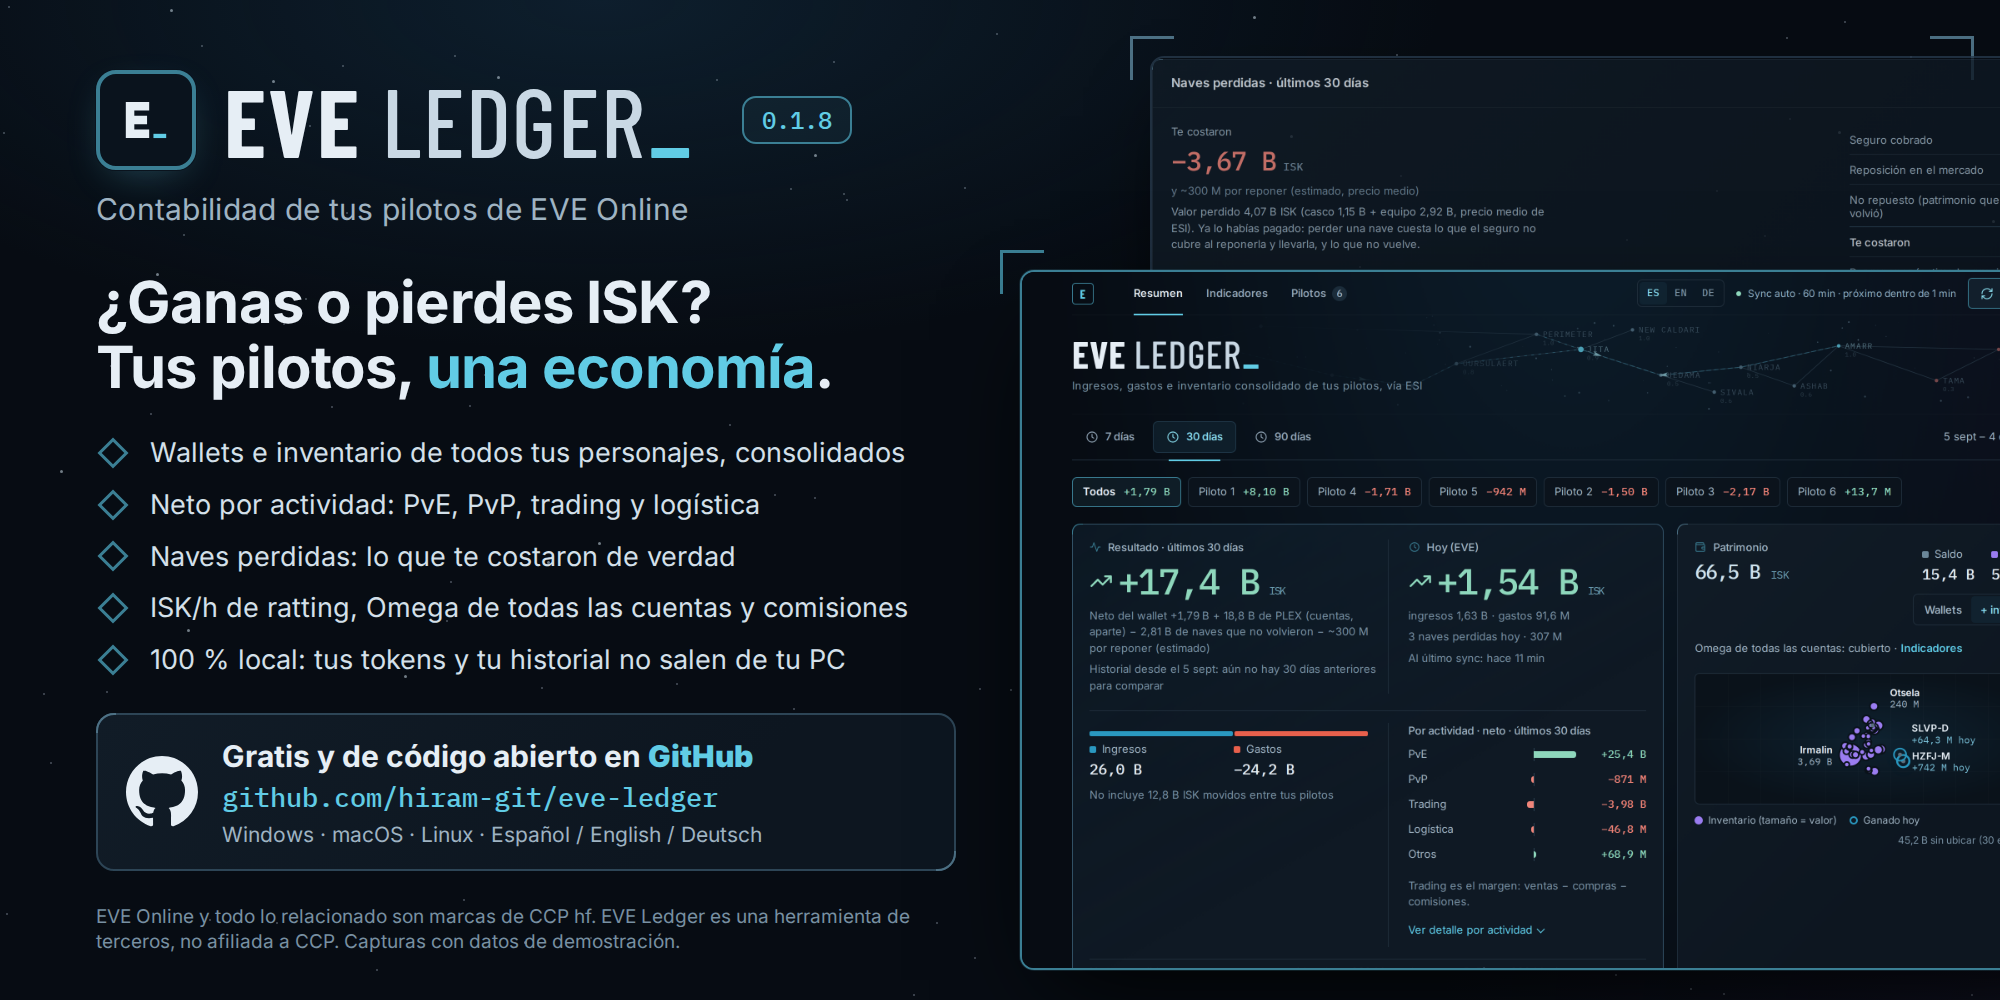
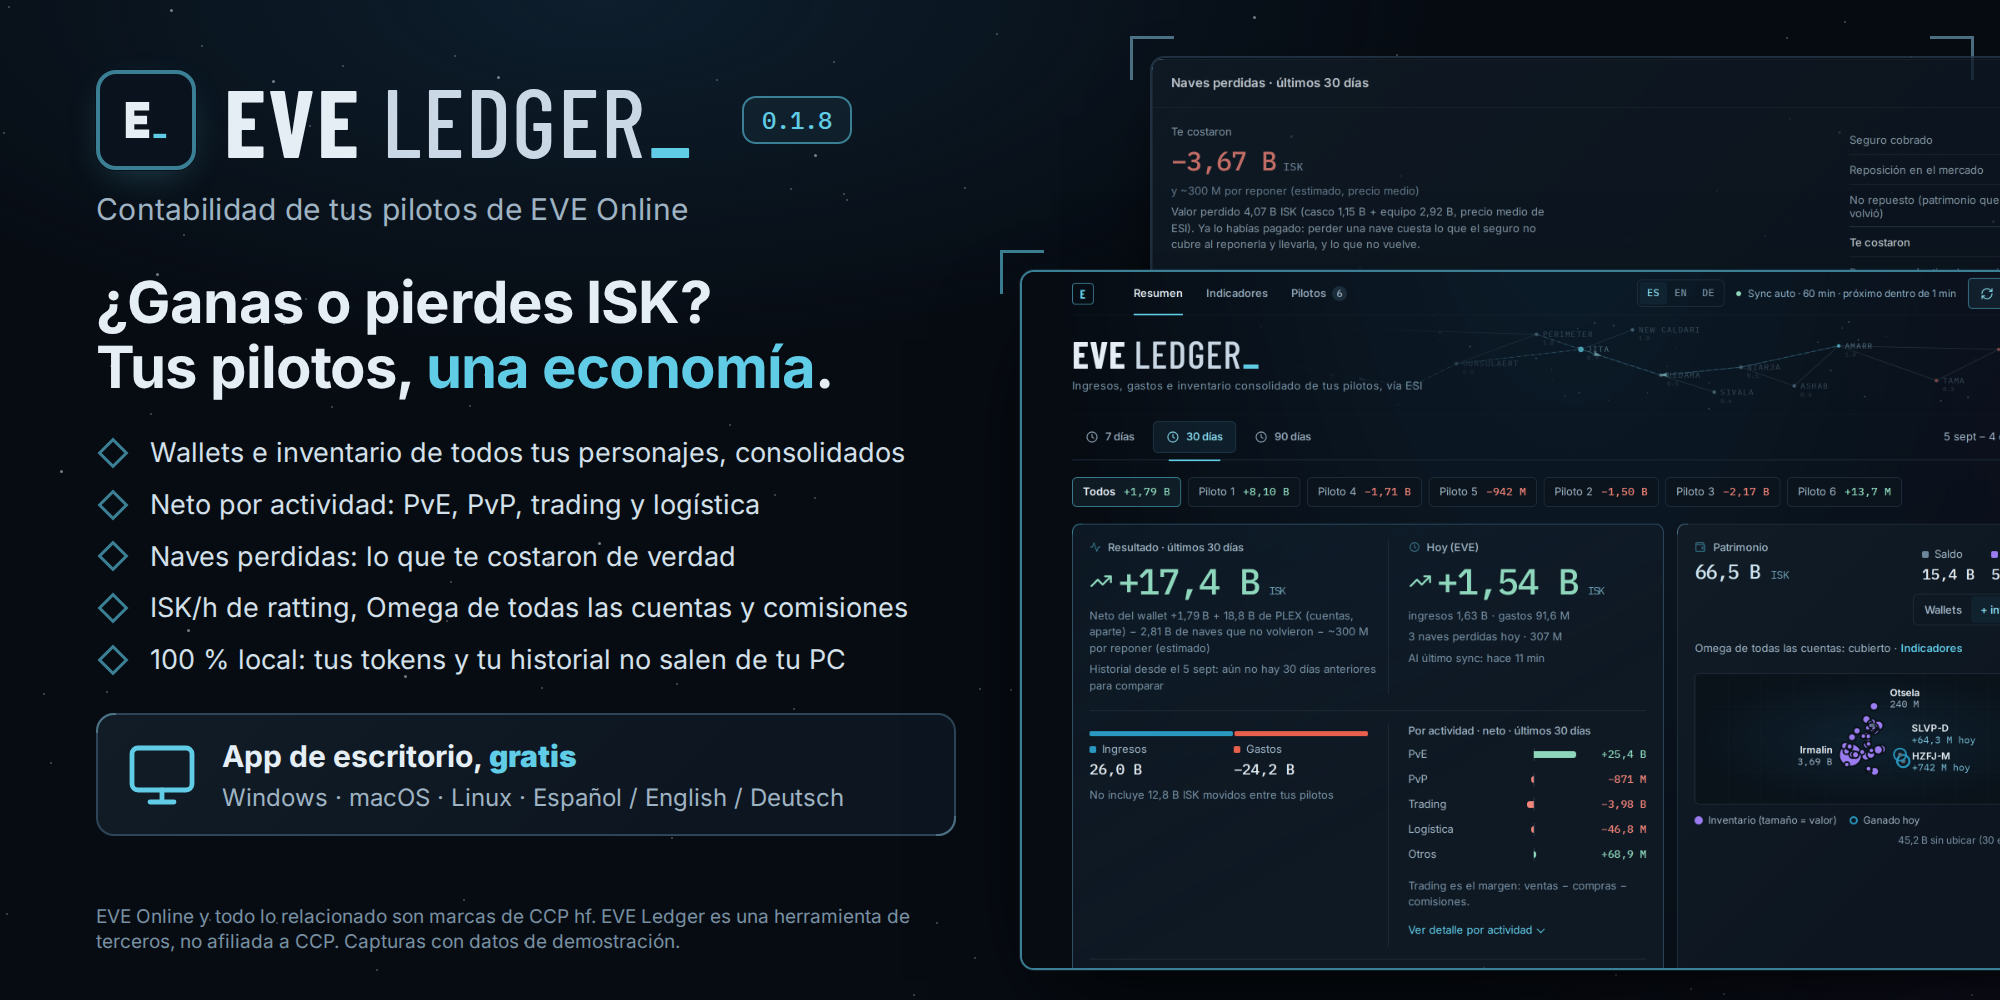
Brochure sin el enlace de GitHub
La caja pasa a «App de escritorio, gratis · Windows · macOS · Linux ·
Español / English / Deutsch»: el repositorio aún no se comparte.

Claude-Session: https://claude.ai/code/session_01M8WtF2MrXeJVUAxf2xqCAQ

Changed region(s): [[0.062, 0.744, 0.434, 0.868]]

diff --git a/docs/brochure/brochure.html b/docs/brochure/brochure.html
@@ -46,11 +46,11 @@ li::before { content: ''; flex: none; width: 16px; height: 16px; border: 3px sol
 .box::before, .box::after { content: ''; position: absolute; width: 18px; height: 18px; }
 .box::before { top: -2px; left: -2px; border-top: 2px solid var(--corner); border-left: 2px solid var(--corner); border-top-left-radius: 18px; }
 .box::after { bottom: -2px; right: -2px; border-bottom: 2px solid var(--corner); border-right: 2px solid var(--corner); border-bottom-right-radius: 18px; }
-.box svg { width: 72px; height: 72px; fill: var(--text); flex: none; }
+.box svg { width: 72px; height: 72px; flex: none; fill: none; stroke: var(--cyan); stroke-width: 1.6; stroke-linecap: round; stroke-linejoin: round; }
 .box .t1 { font-size: 30px; font-weight: 700; }
 .box .t1 b { color: var(--cyan); }
 .box .t2 { font: 500 27px var(--mono); color: var(--cyan); margin-top: 2px; }
-.box .t3 { font-size: 21px; color: var(--text-secondary); margin-top: 6px; }
+.box .t3 { font-size: 24px; color: var(--text-secondary); margin-top: 4px; }
 .foot { position: absolute; left: 96px; width: 880px; bottom: 26px; font-size: 19px; line-height: 1.35; color: var(--text-muted); }
 /* capturas */
 .shots { position: absolute; left: 1000px; top: 0; right: 0; bottom: 0; }
@@ -78,11 +78,10 @@ li::before { content: ''; flex: none; width: 16px; height: 16px; border: 3px sol
   <h1 data-t="headline"></h1>
   <ul data-t="bullets"></ul>
   <div class="box">
-    <svg viewBox="0 0 16 16" aria-hidden="true"><path d="M8 0C3.58 0 0 3.58 0 8c0 3.54 2.29 6.53 5.47 7.59.4.07.55-.17.55-.38 0-.19-.01-.82-.01-1.49-2.01.37-2.53-.49-2.69-.94-.09-.23-.48-.94-.82-1.13-.28-.15-.68-.52-.01-.53.63-.01 1.08.58 1.23.82.72 1.21 1.87.87 2.33.66.07-.52.28-.87.51-1.07-1.78-.2-3.64-.89-3.64-3.95 0-.87.31-1.59.82-2.15-.08-.2-.36-1.02.08-2.12 0 0 .67-.21 2.2.82.64-.18 1.32-.27 2-.27.68 0 1.36.09 2 .27 1.53-1.04 2.2-.82 2.2-.82.44 1.1.16 1.92.08 2.12.51.56.82 1.27.82 2.15 0 3.07-1.87 3.75-3.65 3.95.29.25.54.73.54 1.48 0 1.07-.01 1.93-.01 2.2 0 .21.15.46.55.38A8.013 8.013 0 0 0 16 8c0-4.42-3.58-8-8-8z"/></svg>
+    <svg viewBox="0 0 24 24" aria-hidden="true" class="mon"><rect x="2" y="3" width="20" height="14" rx="2"/><path d="M8 21h8M12 17v4"/></svg>
     <div>
       <div class="t1" data-t="box1"></div>
-      <div class="t2">github.com/hiram-git/eve-ledger</div>
-      <div class="t3" data-t="box3"></div>
+            <div class="t3" data-t="box3"></div>
     </div>
   </div>
 </div>
@@ -99,7 +98,7 @@ const T = {
     tagline: 'Contabilidad de tus pilotos de EVE Online',
     headline: '¿Ganas o pierdes ISK?<br>Tus pilotos, <em>una economía</em>.',
     bullets: ['Wallets e inventario de todos tus personajes, consolidados', 'Neto por actividad: PvE, PvP, trading y logística', 'Naves perdidas: lo que te costaron de verdad', 'ISK/h de ratting, Omega de todas las cuentas y comisiones', '100 % local: tus tokens y tu historial no salen de tu PC'],
-    box1: 'Gratis y de código abierto en <b>GitHub</b>',
+    box1: 'App de escritorio, <b>gratis</b>',
     box3: 'Windows · macOS · Linux · Español / English / Deutsch',
     foot: 'EVE Online y todo lo relacionado son marcas de CCP hf. EVE Ledger es una herramienta de terceros, no afiliada a CCP. Capturas con datos de demostración.',
   },
@@ -107,7 +106,7 @@ const T = {
     tagline: 'A ledger for your EVE Online pilots',
     headline: 'Making or losing ISK?<br>Your pilots, <em>one economy</em>.',
     bullets: ['Wallets and assets of all your characters, consolidated', 'Net by activity: PvE, PvP, trading, logistics', 'Lost ships: what they really cost you', 'Ratting ISK/h, Omega for all accounts, fees & taxes', '100% local: your tokens and history never leave your PC'],
-    box1: 'Free & open source on <b>GitHub</b>',
+    box1: 'Desktop app, <b>free</b>',
     box3: 'Windows · macOS · Linux · Español / English / Deutsch',
     foot: 'EVE Online and all related marks are trademarks of CCP hf. EVE Ledger is a third-party tool, not affiliated with CCP. Screenshots: demo data.',
   },
